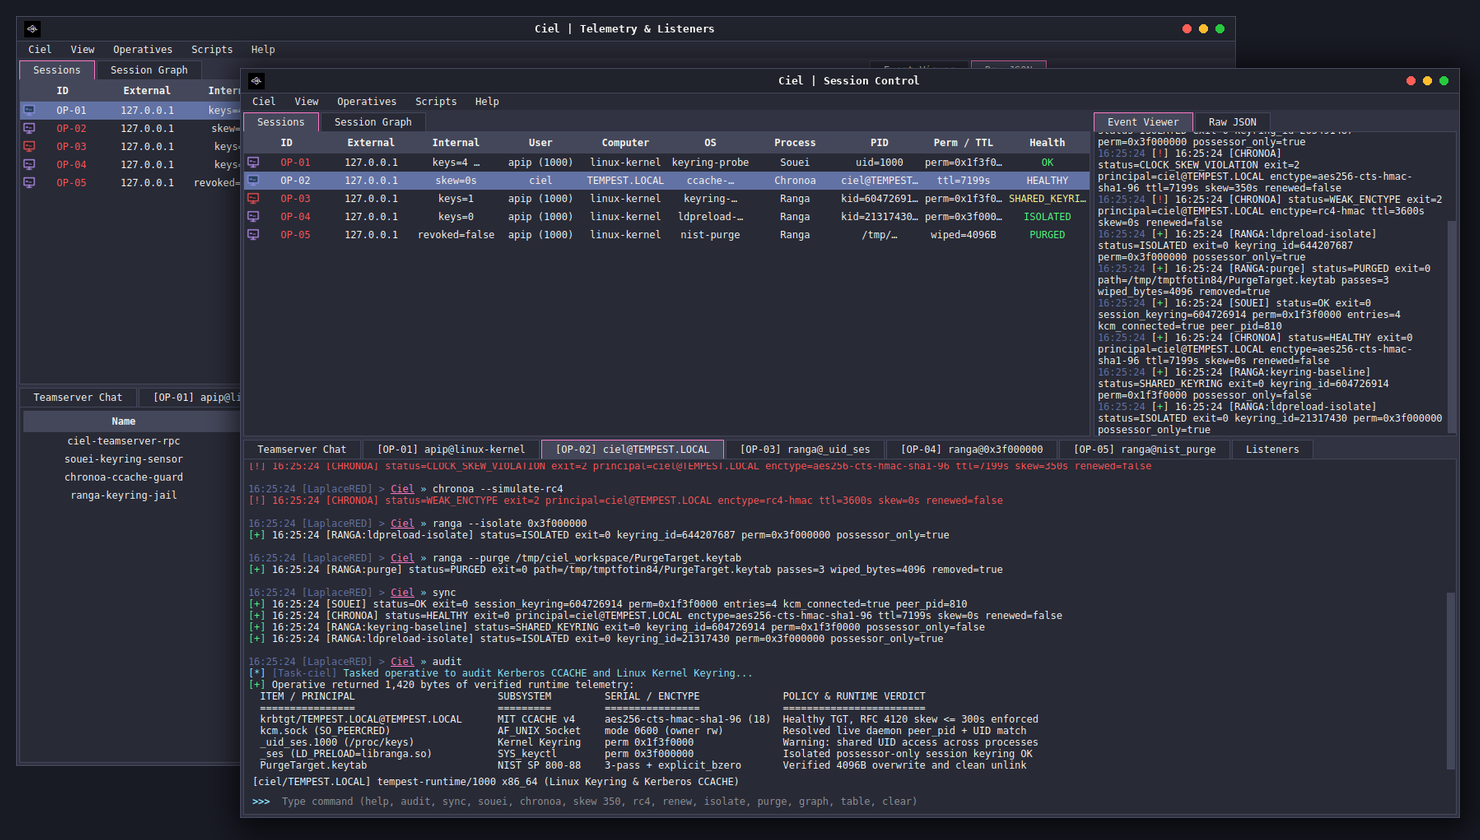
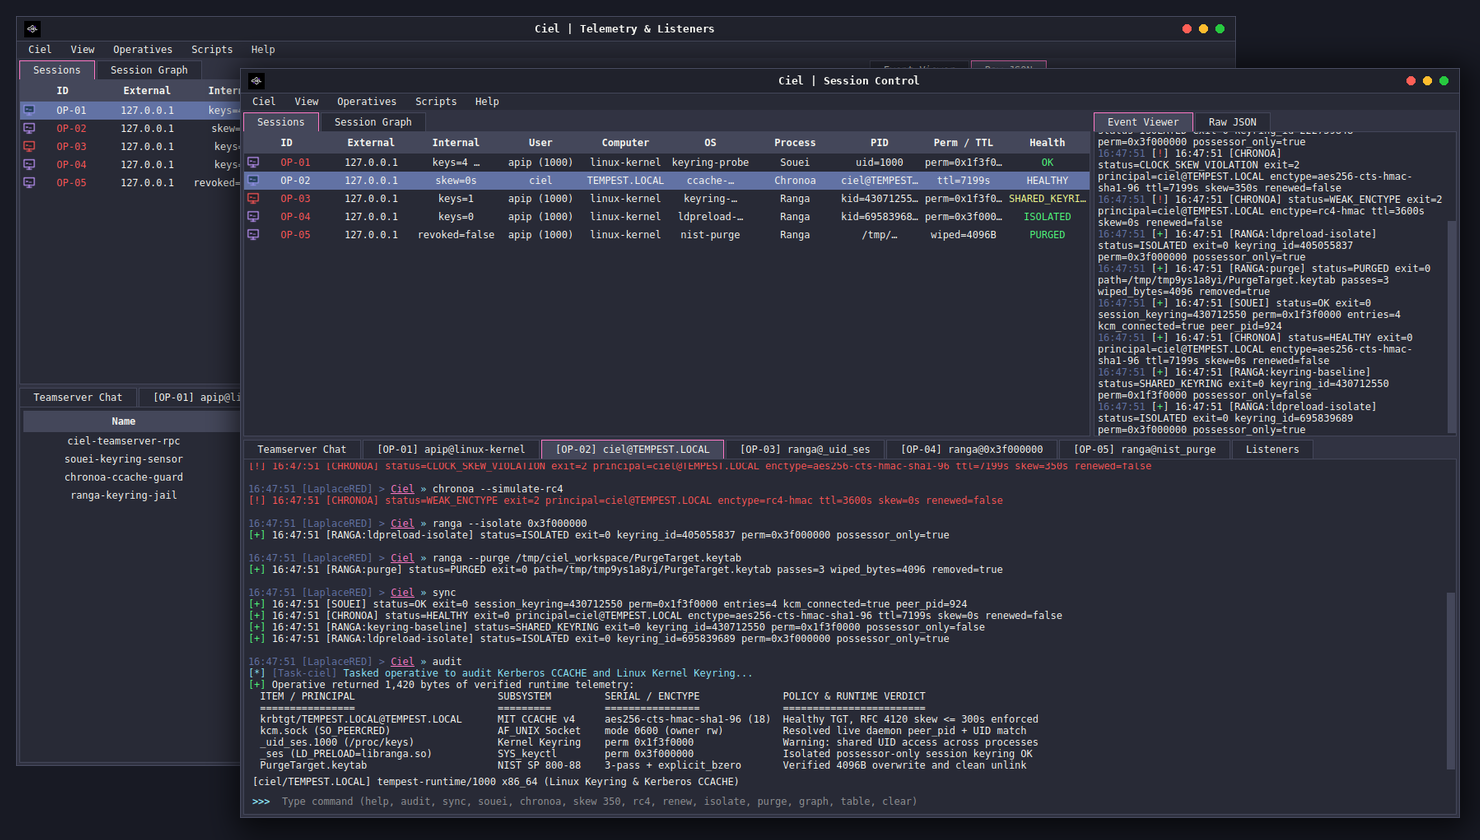
docs: move documentation to docs/ and remove hardcoded local paths

diff --git a/tests/test_ciel.py b/tests/test_ciel.py
@@ -1,7 +1,6 @@
 #!/usr/bin/env python3
 import json
 import os
-import shutil
 import socket
 import subprocess
 import sys
@@ -16,9 +15,7 @@ BIN = ROOT / "bin"
 ASSETS = ROOT / "assets"
 TEAMSERVER = str(BIN / "ciel-teamserver")
 CLIENT = str(BIN / "ciel-client")
-TEMPEST_BIN = Path("/mnt/c/Users/Ely/.gemini/antigravity/scratch/tempest/bin")
-ARTIFACT_SHOT = Path("/mnt/c/Users/Ely/.gemini/antigravity/brain/f6ca982c-a8c1-47a9-856f-cf48a55292f3/ciel_preview.png")
-ARTIFACT_GRAPH_SHOT = Path("/mnt/c/Users/Ely/.gemini/antigravity/brain/f6ca982c-a8c1-47a9-856f-cf48a55292f3/ciel_graph_preview.png")
+TEMPEST_BIN = Path(os.environ.get("TEMPEST_BIN_DIR", str(ROOT.parent / "tempest" / "bin")))
 
 
 def load_ui_font(size=14):
@@ -222,9 +219,6 @@ def main():
                 print(f"[PASS] native Qt6 ciel-client --self-test {label} ({len(raw)} bytes)")
 
             out_graph, out_multi = compose_showcase_images(shot_path, graph_shot_path, alt_shot_path)
-            ARTIFACT_SHOT.parent.mkdir(parents=True, exist_ok=True)
-            shutil.copyfile(out_graph, ARTIFACT_GRAPH_SHOT)
-            shutil.copyfile(out_multi, ARTIFACT_SHOT)
             print(f"[PASS] showcase FullSessionGraph.png ({out_graph.stat().st_size} bytes)")
             print(f"[PASS] showcase MultiSessionControl.png ({out_multi.stat().st_size} bytes)")
         finally:

diff --git a/teamserver/main.go b/teamserver/main.go
@@ -20,7 +20,7 @@ import (
 	"time"
 )
 
-const defaultTempestDir = "/mnt/c/Users/Ely/.gemini/antigravity/scratch/tempest/bin"
+const defaultTempestDir = "../tempest/bin"
 
 type Request struct {
 	Action        string `json:"action"`
@@ -639,6 +639,9 @@ func main() {
 	if defaultDir == "" {
 		defaultDir = defaultTempestDir
 	}
+	if absDir, err := filepath.Abs(defaultDir); err == nil {
+		defaultDir = absDir
+	}
 
 	addr := flag.String("addr", "127.0.0.1:40056", "TCP listen address for Qt desktop clients")
 	tempestDir := flag.String("tempest-dir", defaultDir, "Directory containing built Tempest binaries")
@@ -659,8 +662,19 @@ func main() {
 		selfExe = os.Args[0]
 	}
 
+	resolvedTempestDir := *tempestDir
+	if absTempest, absErr := filepath.Abs(resolvedTempestDir); absErr == nil {
+		resolvedTempestDir = absTempest
+	}
+	if _, statErr := os.Stat(resolvedTempestDir); os.IsNotExist(statErr) && os.Getenv("TEMPEST_BIN_DIR") == "" {
+		exeSibling := filepath.Clean(filepath.Join(filepath.Dir(selfExe), "..", "..", "tempest", "bin"))
+		if _, sibErr := os.Stat(exeSibling); sibErr == nil {
+			resolvedTempestDir = exeSibling
+		}
+	}
+
 	srv := &Server{
-		tempestDir: *tempestDir,
+		tempestDir: resolvedTempestDir,
 		workDir:    *workDir,
 		selfExe:    selfExe,
 	}

diff --git a/client/src/main.cpp b/client/src/main.cpp
@@ -1633,7 +1633,7 @@ int main(int argc, char **argv) {
         QCoreApplication::applicationDirPath() + "/../assets/ciel_icon.png",
         QCoreApplication::applicationDirPath() + "/assets/ciel_icon.png",
         "assets/ciel_icon.png",
-        "/mnt/c/Users/Ely/.gemini/antigravity/scratch/ciel/assets/ciel_icon.png"
+        "../assets/ciel_icon.png"
     };
     QIcon appIcon;
     for (const QString &ip : iconPaths) {

diff --git a/README.md b/README.md
@@ -9,6 +9,12 @@ Ciel
   <i>Ciel is a native desktop command and control console for the Tanuki and Tempest identity runtime ecosystem.</i>
 </p>
 
+<p align="center">
+  <a href="docs/ARCHITECTURE.md">Architecture</a> |
+  <a href="docs/USAGE.md">Usage</a> |
+  <a href="docs/COMMANDS.md">Commands</a>
+</p>
+
 <br>
 
 <p align="center">
@@ -21,104 +27,20 @@ Ciel
   <img src="assets/MultiSessionControl.png">
 </p>
 
----
+## About
 
-## Overview
+Ciel pairs a compiled C++20 Qt6 desktop client with a zero-dependency Go teamserver to orchestrate [Tempest](https://github.com/Mafifrizi/tempest) runtime operatives for the [Tanuki](https://github.com/Mafifrizi/tanuki) identity ecosystem. It inspects active Kerberos caches, kernel session keyrings, UNIX socket peers, and credential teardown without browser runtimes or web toolkits.
 
-**Ciel** separates runtime sensing from operator control. Rather than embedding browser shells or web frameworks, the console runs as a compiled **C++20 Qt6 Widgets** desktop client connected over local TCP JSON to a lightweight **Go** teamserver (`ciel-teamserver`). The teamserver dispatches compiled C11/C++20 **[Tempest](https://github.com/Mafifrizi/tempest)** operatives against active Linux Kerberos caches, UNIX sockets, and kernel session keyrings, feeding real-time structured state back into the desktop UI.
+## Features
 
-- **Zero Browser Overhead**: Native Qt6 `QMainWindow`, `QSplitter`, `QTableWidget`, `QGraphicsView`, and `QTextEdit` panels styled in dark slate and violet accents with 9pt monospace typography.
-- **Zero External Go Teamserver Dependencies**: `teamserver/main.go` uses only the Go standard library to manage `krb5cc_ciel`, `kcm.sock`, `PurgeTarget.keytab`, and operative process execution.
-- **Real Kernel & Protocol Telemetry**: Every action displayed in the GUI executes live binaries (`souei`, `chronoa`, `ranga`, `libranga.so`) with semantic exit codes `0..4`.
+- Native C++20 Qt6 desktop interface with zero browser wrappers
+- Multi-column identity topology graph with draggable operative and revoked nodes
+- Ten-column session matrix with live Event Viewer and raw telemetry inspection
+- Zero external Go dependencies in the local TCP JSON teamserver
+- Pre-wired policy verification for RFC 4120 clock skew, RC4 weak ciphers, and possessor-only keyring isolation
 
----
+## Documentation
 
-## UI & UX Architecture
-
-### 1. Session Topology Graph (`Session Graph` Tab)
-Interactive 4-column `QGraphicsScene` canvas rendered via `CielGraphNode` and `CielGraphEdge` vector painters on `#282a36`:
-- **Column 0 (Teamserver Hub)**: Root terracotta firewall hub representing `ciel-teamserver` (`127.0.0.1:40056`).
-- **Column 1 (Primary Daemons)**: Active telemetry monitors (`OP-01` `Souei`, `OP-02` `Chronoa`, `OP-03` `Ranga` baseline) with green callback arrows pointing back into the Teamserver Hub (`netlink`, `ccache`, `keyctl`).
-- **Column 2 & 3 (Derived Boundaries & Leaf Targets)**: Runtime isolation (`OP-04` emerald padlock `0x3f000000`), elevated-alert triple-lightning purge monitors (`OP-05`, `OP-08`), verified TGT targets (`OP-07`), and muted grayscale revoked ticket nodes (`OP-06` `kcm\revoked_tkt`).
-- All nodes support free dragging (`ItemIsMovable`) with real-time directional arrow and midpoint protocol label recalculation.
-
-### 2. 10-Column Session Matrix (`Sessions` Tab)
-Flat, borderless operator table aligned across `ID`, `External`, `Internal`, `User`, `Computer`, `OS`, `Process`, `PID`, `Perm / TTL`, and `Health`. Selecting any row updates the `Raw JSON` telemetry pane, and right-clicking opens quick actions to inspect keyrings, simulate policy violations, isolate sessions, or purge files.
-
-### 3. Event Viewer & Raw JSON Inspector
-- **`Event Viewer`**: Timestamped HTML log stream tagging `[+]` healthy actions, `[*]` informational notices, and `[!]` policy stops (`CLOCK_SKEW_VIOLATION`, `WEAK_ENCTYPE`).
-- **`Raw JSON`**: Indented JSON payload returned verbatim by the dispatched Tempest operative.
-
-### 4. Multi-Tab Operative Console & Listeners
-- Bottom tab workspace hosting `Teamserver Chat`, context tabs `[OP-01]`..`[OP-05]`, the active `[OP-02] ciel@TEMPEST.LOCAL` console with autocomplete `>>>` input, and the `Listeners` overview with one-click dispatch buttons.
-
----
-
-## Ecosystem Integration
-
-```text
-[ Tanuki CLI ]  --->  [ Tempest (C11/C++20) ]  --->  [ Ciel Teamserver (Go) ]  --->  [ Ciel Client (Qt6) ]
-  AD/Kerberos           souei, chronoa, ranga          TCP JSON + AF_UNIX kcm.sock     Sessions, Graph,
-  workflows             + libranga.so                  + CCACHE v4 demo artifacts      Events & Console
-```
-
-| Exit Code | Meaning | How Ciel Surfacing Works |
-| --- | --- | --- |
-| `0` | `OK` / `HEALTHY` / `ISOLATED` / `RENEWED` / `PURGED` | Green node edges, `#50fa7b` status cells, `[+]` console and Event Viewer entries |
-| `1` | Usage / Invalid RPC Request | CLI usage help or `[!]` red JSON parse alert |
-| `2` | `POLICY_STOP` (`CLOCK_SKEW_VIOLATION`, `WEAK_ENCTYPE`, `EXPIRED`) | Red `[!]` alert banner in console and Event Viewer, elevated monitor alert visuals |
-| `3` | `MISSING` (Missing CCACHE, socket, or purge path) | `MISSING` status tag with diagnostic message |
-| `4` | `PARSE_ERROR` (Corrupt or unsupported CCACHE header) | `PARSE_ERROR` tag with raw stderr telemetry |
-
----
-
-## Operative Console Commands
-
-Type any command directly at the `>>>` prompt inside the `[OP-02] ciel@TEMPEST.LOCAL` tab (Tab autocomplete enabled):
-
-| Command | Arguments | Description |
-| --- | --- | --- |
-| `sync` | none | Run `full_sync` across `Souei`, `Chronoa`, `Ranga` baseline, and `Ranga` isolated |
-| `audit` | none | Print aligned Kerberos CCACHE and Linux Kernel Keyring verification matrix |
-| `souei` | none | Probe `/proc/keys` ACLs and resolve `kcm.sock` peer via `SO_PEERCRED` |
-| `chronoa` | none | Inspect active MIT CCACHE v4 lifetime, principal, and encryption type |
-| `skew` | `<sec>` | Simulate KDC clock drift (`350` triggers RFC 4120 `300s` policy stop `exit=2`) |
-| `rc4` | none | Generate `rc4-hmac` (`enctype=23`) ticket to trigger `WEAK_ENCTYPE` policy stop |
-| `renew` | none | Invoke `chronoa --renew-cmd` to refresh ticket lifetime to `+7200s` (`aes256`) |
-| `isolate` | none | Launch workload under `LD_PRELOAD=libranga.so` and verify `0x3f000000` keyring |
-| `purge` | none | Execute 3-pass NIST SP 800-88 overwrite + `explicit_bzero` + `unlink` |
-| `graph` / `table` | none | Switch top-left viewport between `Session Graph` and `Sessions` table |
-| `clear` / `help` | none | Reset console output with operative banner or display aligned command reference |
-
----
-
-## Building & Running
-
-### Prerequisites (Linux / WSL2 Ubuntu)
-1. Built **[Tempest](https://github.com/Mafifrizi/tempest)** binaries (`souei`, `chronoa`, `ranga`, `libranga.so`) available under `TEMPEST_BIN_DIR` (defaults to `/mnt/c/Users/Ely/.gemini/antigravity/scratch/tempest/bin`).
-2. Toolchain packages:
-   ```bash
-   sudo apt-get update && sudo apt-get install -y golang-go qt6-base-dev cmake pkg-config fonts-dejavu-core python3-pil
-   ```
-
-### Build & Automated Verification
-```bash
-make clean && make
-make test
-```
-
-### Launch Live Desktop Session
-Terminal 1 (Start Go Teamserver):
-```bash
-./bin/ciel-teamserver --addr 127.0.0.1:40056 --tempest-dir /path/to/tempest/bin
-```
-
-Terminal 2 (Start Native Qt6 Client via X11 / Wayland / WSLg):
-```bash
-./bin/ciel-client --addr 127.0.0.1:40056
-```
-
-Automated headless verification and showcase rendering:
-```bash
-QT_QPA_PLATFORM=offscreen ./bin/ciel-client --addr 127.0.0.1:40056 --self-test --screenshot table.png --graph-screenshot graph.png
-```
+- [Architecture and Ecosystem Integration](docs/ARCHITECTURE.md)
+- [Building and Running](docs/USAGE.md)
+- [Operative Console Commands](docs/COMMANDS.md)

diff --git a/docs/ARCHITECTURE.md b/docs/ARCHITECTURE.md
@@ -1,0 +1,26 @@
+# Architecture
+
+Ciel separates desktop operator presentation from low-level Linux kernel and Kerberos sensing across three decoupled layers.
+
+## Stack Overview
+
+1. Desktop Client (client/src/main.cpp): Compiled C++20 Qt6 Widgets application providing the Sessions matrix, 4-column Session Graph, Event Viewer, Raw JSON inspector, Listeners panel, and interactive console.
+2. Teamserver (teamserver/main.go): Zero-dependency Go service listening on local TCP JSON (default port 40056), managing a private AF_UNIX KCM test socket (kcm.sock) and sample Kerberos workspace artifacts under /tmp/ciel_workspace.
+3. Runtime Operatives ([Tempest](https://github.com/Mafifrizi/tempest)): Native C11 and C++20 binaries (souei, chronoa, ranga, and libranga.so) executed by the teamserver for direct kernel and MIT CCACHE inspection.
+
+## UI Components
+
+- Session Graph (Session Graph tab): Interactive vector topology linking the root ciel-teamserver firewall hub to primary daemons (OP-01 Souei, OP-02 Chronoa, OP-03 Ranga baseline), derived isolation and wipe nodes (OP-04 0x3f000000, OP-05 NIST purge, OP-06 grayscale revoked ticket), and verified identity leaf targets (OP-07, OP-08).
+- Sessions Matrix (Sessions tab): Borderless ten-column view displaying ID, External, Internal, User, Computer, OS, Process, PID, Perm / TTL, and Health, paired with a right-click action menu.
+- Telemetry Panels (top-right pane): Event Viewer formats timestamped operator logs, while Raw JSON renders the full JSON payload from Tempest.
+- Multi-Tab Workspace (bottom pane): Holds Teamserver Chat, context tabs OP-01 through OP-05, the active operator console, and the Listeners dispatch tab.
+
+## Semantic Exit Contract
+
+Tempest operatives and Ciel RPC responses share a five-state exit code contract designed for post-hackathon integration with [Tanuki](https://github.com/Mafifrizi/tanuki):
+
+- Exit 0 (OK / HEALTHY / ISOLATED / RENEWED / PURGED): Verification passed cleanly.
+- Exit 1 (USAGE / BAD_JSON): Invalid flag or malformed RPC payload.
+- Exit 2 (POLICY_STOP): Clock skew beyond RFC 4120 limit (300s), weak cipher (RC4/DES), expired ticket, insecure ACL, or symlink purge target.
+- Exit 3 (MISSING): Target CCACHE file, socket, or secret file does not exist.
+- Exit 4 (PARSE_ERROR): Corrupt or unsupported CCACHE binary format.

diff --git a/docs/COMMANDS.md b/docs/COMMANDS.md
@@ -1,0 +1,22 @@
+# Operative Console Commands
+
+Run these commands directly at the prompt inside the active operator tab (Tab autocomplete enabled), or trigger them from the Operatives top menu, Listeners bar, or Sessions right-click menu.
+
+## Verification and Dispatch
+
+- sync: Run a full_sync sweep across Souei, Chronoa, Ranga baseline, and Ranga isolated.
+- audit: Print an aligned Kerberos CCACHE and Linux Kernel Keyring verification summary inside the console.
+- souei: Execute a passive /proc/keys ACL audit paired with a live AF_UNIX SO_PEERCRED probe against kcm.sock.
+- chronoa: Parse the active MIT CCACHE v4 file and validate expiration, encryption type, and drift.
+- skew N: Simulate KDC clock drift of N seconds (values above 300 trigger RFC 4120 CLOCK_SKEW_VIOLATION with exit 2).
+- rc4: Generate a temporary rc4-hmac (enctype 23) ticket to test WEAK_ENCTYPE policy enforcement (exit 2).
+- renew: Invoke the Chronoa renewal hook to refresh the workspace CCACHE to +7200s using AES256.
+- isolate: Run a workload wrapped with LD_PRELOAD=libranga.so and verify possessor-only session keyring permissions (0x3f000000).
+- purge: Execute a 3-pass NIST SP 800-88 file wipe (0x00, 0xFF, random), explicit_bzero, and unlink on the target secret artifact.
+
+## Viewport Navigation
+
+- graph: Switch the top-left viewport to the interactive 4-column Session Graph.
+- table: Switch the top-left viewport back to the 10-column Sessions table.
+- clear: Clear console output and print a fresh operator session banner.
+- help: Display the inline command table.

diff --git a/docs/USAGE.md b/docs/USAGE.md
@@ -1,0 +1,31 @@
+# Building and Running
+
+## Prerequisites
+
+1. Build [Tempest](https://github.com/Mafifrizi/tempest) alongside Ciel at ../tempest so the compiled binaries live in ../tempest/bin (or point TEMPEST_BIN_DIR to your Tempest bin directory).
+2. Install the Linux / WSL2 toolchain packages:
+
+    sudo apt-get update && sudo apt-get install -y golang-go qt6-base-dev cmake pkg-config fonts-dejavu-core python3-pil
+
+## Compile and Verify
+
+Run the strict -Wall -Wextra -Werror build and full RPC + headless Qt6 test suite from the repository root:
+
+    make clean && make
+    make test
+
+## Start a Live Session
+
+Terminal 1 starts the Go teamserver (resolving ../tempest/bin automatically or via TEMPEST_BIN_DIR):
+
+    ./bin/ciel-teamserver --addr 127.0.0.1:40056
+
+Terminal 2 launches the native Qt6 desktop client over X11, Wayland, or WSLg:
+
+    ./bin/ciel-client --addr 127.0.0.1:40056
+
+## Headless Self-Test Mode
+
+Run automated end-to-end UI verification and regenerate showcase screenshots without an active display server:
+
+    QT_QPA_PLATFORM=offscreen ./bin/ciel-client --addr 127.0.0.1:40056 --self-test --screenshot table.png --graph-screenshot graph.png
